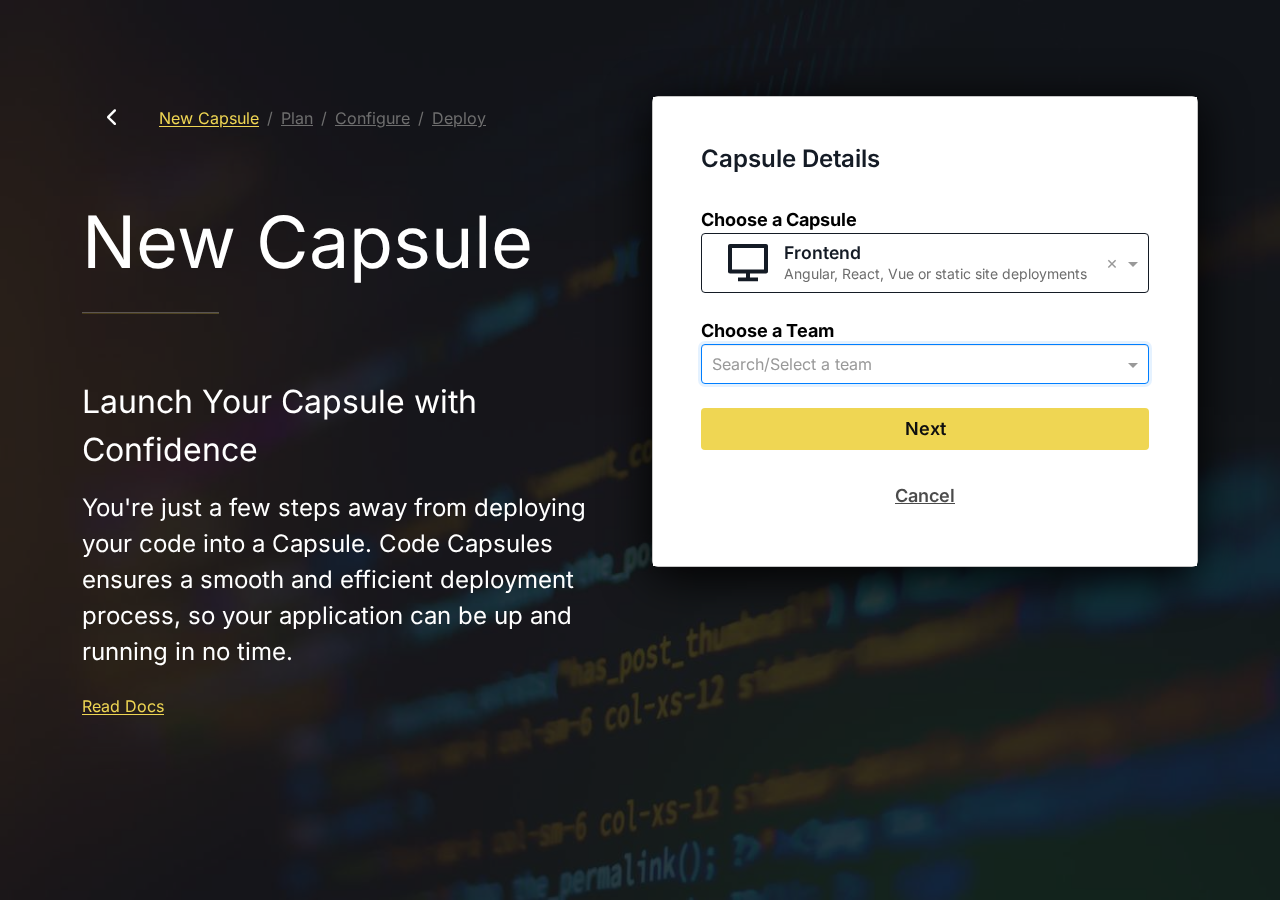
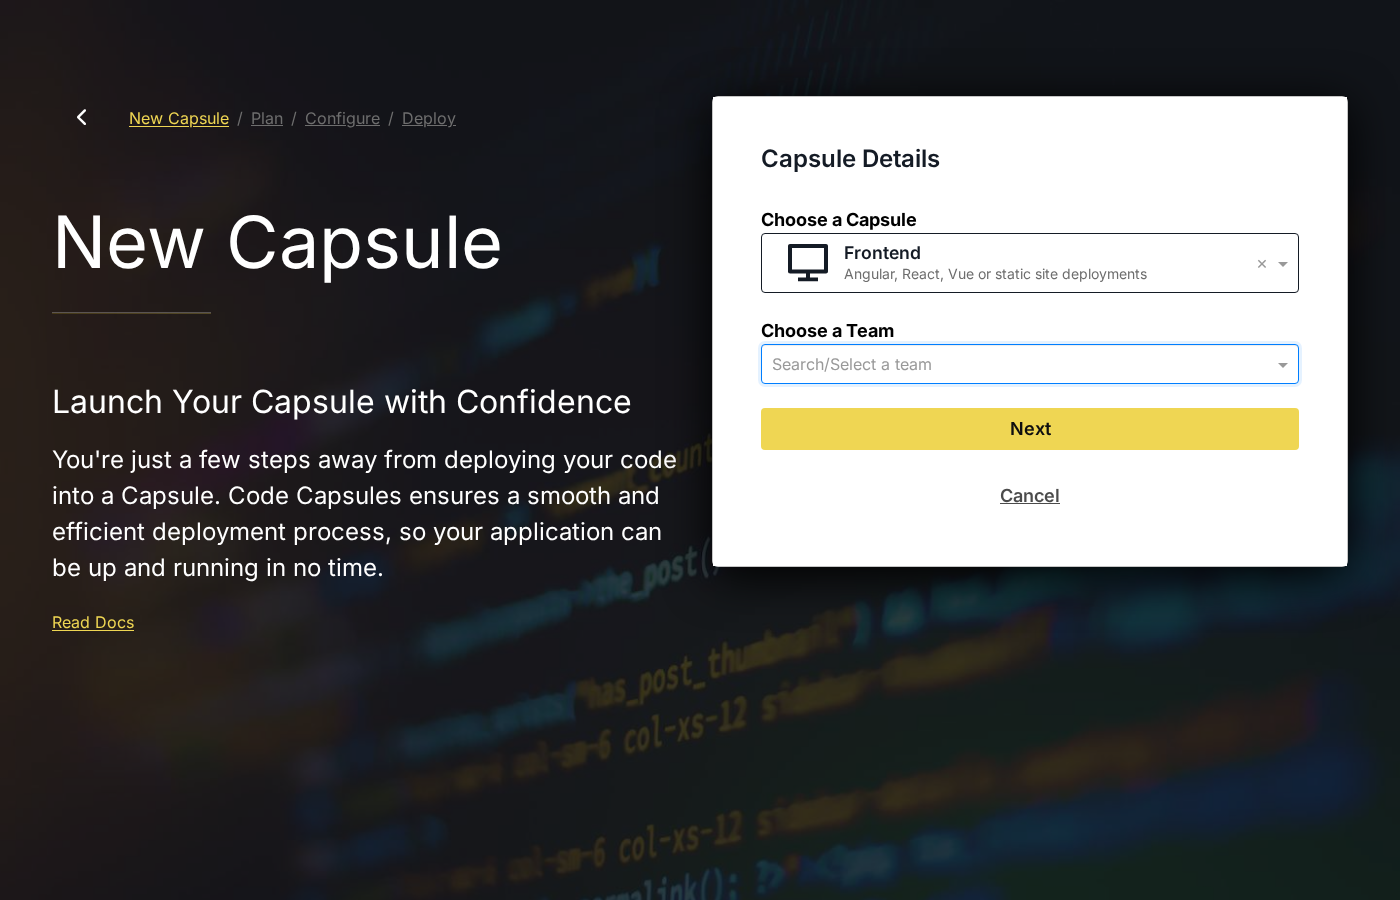
docs: align platform guides with live test-platform UI (2026-11-19)

diff --git a/docs/guides/create-angular-frontend-capsule.md b/docs/guides/create-angular-frontend-capsule.md
@@ -1,79 +1,31 @@
----
-slug: "/frontend/angular"
-description: >-
-  Deploy an Angular application on Code Capsules with auto-deployments from a
-  specified branch on your GitHub repository.
-title: "How to Host an Angular Application"
-sidebar_label: "Angular"
----
+# Create Angular frontend capsule
 
-# Host Your Angular Application in Minutes
+Walk through creating an **Angular** app as a **Frontend Capsule** on the Code Capsules test platform. Steps below reflect visible labels on [test-platform.codecapsules.io](https://test-platform.codecapsules.io) captured on **2026-11-19**.
 
-Deploy an Angular application and learn how to host frontend code on Code Capsules. At the end of the guide, you would have deployed the application in the screenshot below and can adapt it to meet your unique needs.
+## Prerequisites
 
-![Deployed App](/gitbook-assets/get-started/cc-angular-app.png)
+- A Code Capsules account on the test platform
+- An Angular project in a connected Git repository (example build: `npm run build`, output folder e.g. `dist/your-project`)
 
-## Setup
+## Steps
 
-Code Capsules connects to GitHub repositories to deploy applications. To follow this guide, you’ll need a [Code Capsules](https://www.codecapsules.io/) account and a [GitHub](https://github.com/) account.
+1. Open [https://test-platform.codecapsules.io](https://test-platform.codecapsules.io). If you land on **Create your account**, use the **Log in** link under “Already have an account?”.
+2. On **Welcome back**, enter your email in the **Email** textbox (placeholder “Enter your email”).
+3. Enter your password in the **Password** textbox (placeholder “Enter your password”).
+4. Click the **Log in** button.
+5. After login, open **Quick Start** in the sidebar if you are not already there. Confirm the heading **What type of capsule would you like to deploy?**
+6. In the **Angular** row, click **Deploy Now**.
+7. On **New Capsule** (breadcrumb **Plan** / **Configure** / **Deploy**), complete **Capsule Details**: confirm **Choose a Capsule** shows **Frontend**, pick **Choose a Team**, then **Choose a Space** when shown. Click **Next** to continue (**Cancel** exits without creating a capsule).
 
-To demonstrate how to deploy an Angular application with Code Capsules, we’ve provided an example application, which you can find on the [Code Capsules GitHub repository](https://github.com/BrentonJScott/demo-angular-22).
+![Registration / log in entry](/img/guides/shared/step-0-open-site.png)
 
-Sign in to GitHub, and fork the example application by clicking **Fork** at the top-right of your screen and selecting your GitHub account as the destination.
+![Welcome back login form](/img/guides/shared/step-1-login-page.png)
 
-## Create an Account with Code Capsules
+![Quick Start capsule chooser](/img/guides/shared/step-2-quick-start.png)
 
-If you don’t already have an account, navigate to the [Code Capsules](https://www.codecapsules.io/) site and click the **Sign Up** button in the top right corner of the screen. Enter your details to create an account, or log in to an existing one.
+![New Capsule — Capsule Details](/img/guides/create-angular-frontend-capsule/step-5-new-capsule-wizard.png)
 
-If you’ve just signed up for an account, you’ll be directed to a welcome page on your first login. Click on the **Go To Personal Team** button.
+Typical Angular build settings on **Configure**:
 
-Alternatively, if you’re signing in again, click on the **Spaces** tab.
-
-For a better understanding of Teams, Spaces, and Capsules, take a look at [our explanation](/platform/platform/).
-
-## Create a Space for Your App
-
-Log in to your Code Capsules account and navigate to the **Spaces** tab. Once there, click the yellow `+` icon on the bottom left of the screen to add a new Space.
-
-Follow the prompts, choosing your region and giving your Space a name, then click **Create Space**.
-
-![Create a New Space](/gitbook-assets/get-started/space-name-1.png)
-
-
-1. Choose a Team — you can use a default “personal” Team if you’re the only person working on this project, or a named Team if you’re collaborating with others
-2. This should remind you of the project, for example, “customer-api” or “notetaking-app”
-3. Choose a country close to where most of your users will be
-
-## Create the Capsule
-
-A [Capsule](/platform/capsules/what-is-a-capsule/) provides the server for hosting an application on Code Capsules.
-
-Navigate to the Space you just created, then click the yellow `+` icon on the bottom left of the screen and click **New Capsule**. You can also click **Deploy Now** on the **Angular** card on the **Quick Start** page, which preselects the Frontend Capsule type. Follow the steps below to create a Frontend Capsule:
-
-1. Under **Choose a Capsule**, select **Frontend**. Select your **Team** and your **Space**, then click **Next**.
-2. On **Hosting**, select **Static** and click **Next**. Static serves the files your build produces and is the right choice for an Angular app that doesn't need server-side rendering.
-3. On **Plan**, select **Free** or **Paid** and click **Next**. The **Free** plan costs $0, allows 30MB per build and 50GB of traffic a month, and is enough for this guide. See [Static Frontend Free and Paid Plans](/products/frontend-capsule/static/plans/) for the details.
-4. On **Connect a Git Repository**, select the repository you forked from the **Git Repository** list. Type `angular` to search. If the repository isn't listed, click **Configure Git for Code Capsules** and give Code Capsules access to it. If you forked the repository after opening this page, reload the page so it appears.
-5. The **Branch** is filled in with your repository's default branch, `main`. Leave **Repo subpath** empty and click **Next**. Code Capsules shows "Repo will be automatically shared with your team", so everyone on the Team can use that repo for their own capsules.
-6. On **Build & Deploy**, enter:
-   - **Build Command**: `npm run build`
-   - **Path to static content**: `dist/cc-demo-angular/browser`
-
-   Leave **Capsule Name** as it is, or change it. You can rename the capsule later from the **Details** tab.
-7. Click **Create Capsule**.
-
-Code Capsules automatically builds your application when you've finished creating the Capsule. The **Details** tab opens and shows **Building** under **Capsule Status**.
-
-To follow the build, click the **Deploy** tab. The **Builds** section lists the latest build with its status, for example **Succeeded** and how long it took. Click **View Logs** to open the build log on the **Builds** tab. This build takes under a minute.
-
-![Build Logs](/gitbook-assets/get-started/angular-build-logs.png)
-
-Once the build shows **Succeeded**, go to the **Details** tab and click the link under **Public URL**, and you should see your deployed application.
-
-![Deployed App](/gitbook-assets/get-started/cc-angular-app.png)
-
-If you’d like to deploy another application in a different language or framework, take a look at our other [deployment guides](/frontend/).
-
-:::tip[Video Guides]
-If you prefer watching videos to reading text, check out our [Video Guides](/tutorials/video-guides/).
-:::
+- **Build Command:** `npm run build`
+- **Path to static content:** your Angular `dist/...` folder (must contain `index.html`)

diff --git a/reports/2026-11-19-cron-platform-audit.md b/reports/2026-11-19-cron-platform-audit.md
@@ -1,0 +1,130 @@
+# Documented features audit (2026-11-19)
+
+**Platform:** https://test-platform.codecapsules.io  
+**Manifest:** `cc-site/DOCUMENTED_FEATURES.MD` — 3 entries  
+**Manifest ↔ docs sync:** No add/remove PR (guides match manifest exactly).
+
+## Summary (this run)
+
+| Guide | feature_functional | doc_fidelity (main @ pre-PR) | doc_completeness (main) | doc_fidelity (branch prose + screenshots) |
+|---|---|---|---|---|
+| create-angular-frontend-capsule | pass | fail | incomplete | pass |
+| create-react-frontend-capsule | pass | drift | incomplete | pass |
+| create-java-backend-capsule | pass | drift | incomplete | pass |
+
+**Acceptance criteria (observable):**
+
+- **Angular / React:** Reach `/new/capsule?capsuleType=frontend` with **New Capsule**, **Capsule Details**, **Next**, **Cancel** via **Quick Start** → framework **Deploy Now**.
+- **Java:** Reach **New Capsule** from **Capsules** → **+**, open **Choose a Capsule**, and select **Backend** (copy: “Node, Java, Go or Python deployments”).
+
+---
+
+## Manifest sync
+
+| Source | Entries |
+|---|---|
+| DOCUMENTED_FEATURES.MD | Create Angular frontend capsule, Create React frontend capsule, Create Java backend capsule |
+| `docs/guides/*.md` | `create-angular-frontend-capsule.md`, `create-react-frontend-capsule.md`, `create-java-backend-capsule.md` |
+
+No orphan guides; no missing guides.
+
+---
+
+## create-angular-frontend-capsule
+
+### feature_functional
+
+**pass** — Logged in, opened `/dash/overview/quick-start`, clicked **Deploy Now** on **Angular** card → `https://test-platform.codecapsules.io/new/capsule?capsuleType=frontend` with **New Capsule**, **Choose a Capsule**, **Frontend**, **Next**, **Cancel**.
+
+### doc_fidelity — main branch (pre-PR, existing prose)
+
+| Step (doc quote) | Fidelity | Screen evidence |
+|---|---|---|
+| “click the **Sign Up** button” on www.codecapsules.io | fail | Test run uses test-platform; visible entry is **Create your account** + **Log in**, not **Sign Up** |
+| “**Quick Start** page” + **Deploy Now** on **Angular** | pass | **Quick Start** sidebar, heading **What type of capsule would you like to deploy?**, **Deploy Now** on **Angular** row |
+| “On **Hosting**, select **Static**” | drift | After **Next** on capsule details, **Static** is visible; visible section label **Hosting** was not found |
+| “On **Plan**, select **Free** or **Paid**” | drift | **Plan** step and **Next** visible; **Free** / **Paid** text not found as visible labels in headless capture |
+| “**Connect a Git Repository**” … **Git Repository** | fail | Not verified on pre-finished wizard without team/space/repo selections in this run |
+
+**Mismatches (bullets):**
+
+- Doc: “**Sign Up** button in the top right corner” → Screen: test-platform registration shows **Create your account**, **Log in** link (no **Sign Up** in the same position on test-platform).
+- Doc: “On **Hosting**, select **Static**” → Screen: **Static** option visible; **Hosting** heading not visible at same step.
+
+### doc_fidelity — PR branch (numbered test-platform steps)
+
+| Step | Fidelity | Evidence |
+|---|---|---|
+| 1. **Create your account** / **Log in** | pass | Visible on `https://test-platform.codecapsules.io/auth/registration` |
+| 2. **Welcome back** / **Email** | pass | Heading **Welcome back**, textbox **Email**, placeholder “Enter your email” |
+| 3. **Password** | pass | Textbox **Password**, placeholder “Enter your password” |
+| 4. **Log in** button | pass | Button **Log in** |
+| 5. **Quick Start** + heading **What type of capsule would you like to deploy?** | pass | Sidebar link **Quick Start**, heading visible |
+| 6. **Angular** + **Deploy Now** | pass | **Angular** card, **Deploy Now** button |
+| 7. **New Capsule** / **Capsule Details** / **Frontend** / **Next** / **Cancel** | pass | All visible at wizard entry (screenshot captured) |
+
+---
+
+## create-react-frontend-capsule
+
+### feature_functional
+
+**pass** — **Quick Start** → **React** row **Deploy Now** → same frontend wizard URL and controls as Angular.
+
+### doc_fidelity — main branch (pre-PR)
+
+| Step (doc quote) | Fidelity | Screen evidence |
+|---|---|---|
+| Prerequisites only (no test-platform login steps) | fail | No numbered steps for platform entry; doc_completeness **incomplete** |
+| **Quick Start** / **Deploy Now** on **React** | pass | Same Quick Start page as Angular |
+| Wizard numbered steps 1–6 (Hosting, Plan, Git, Build) | drift | Same **Hosting** / **Free**/**Paid** label gaps as Angular when wizard advanced |
+
+**Mismatches:**
+
+- Doc: implies production site setup (Teams/Spaces via marketing copy) → Screen: minimum path is test-platform login + Quick Start (not documented on main).
+
+### doc_fidelity — PR branch
+
+| Step | Fidelity | Evidence |
+|---|---|---|
+| 1–4. Login | pass | Same as Angular |
+| 5–6. **Quick Start** / **React** / **Deploy Now** | pass | **React** card **Deploy Now** opens wizard |
+| 7. **New Capsule** wizard | pass | Screenshot `create-react-frontend-capsule/step-5-new-capsule-wizard.png` |
+
+---
+
+## create-java-backend-capsule
+
+### feature_functional
+
+**pass** — **Capsules** sidebar → **+** → `/new/capsule` with **Choose a Capsule**; **Backend** option text includes “Node, Java, Go or Python deployments”.
+
+### doc_fidelity — main branch (pre-PR)
+
+| Step (doc quote) | Fidelity | Screen evidence |
+|---|---|---|
+| “Space containing your recently created **Data Capsule**” | fail | No **Data Capsule** prerequisite on live test account path used |
+| “Capsule Details page” / “Configure Plan page” | drift | Live UI uses **Capsule Details** + breadcrumb **Plan** / **Configure** / **Deploy** (not “Configure Plan page” heading) |
+| **Backend** selection | pass | Dropdown option **Backend** with Java in description |
+
+**Mismatches:**
+
+- Doc: “recently created **Data Capsule**” → Screen: Java path uses **Capsules** → **+** only (no Data Capsule required).
+- Doc: “Configure Plan page” → Screen: breadcrumb **Plan** / **Configure** / **Deploy**, not a **Configure Plan** page title.
+
+### doc_fidelity — PR branch
+
+| Step | Fidelity | Evidence |
+|---|---|---|
+| 1–4. Login | pass | Shared login labels |
+| 5. **Capsules** | pass | Sidebar **Capsules** at `/dash/overview/capsules` |
+| 6. **+** → **New Capsule** | pass | Yellow **+** opens wizard |
+| 7. **Choose a Capsule** / **Backend** / “Node, Java, Go or Python…” | pass | Combobox placeholder “Search/Select a Capsule Type”, options list captured in screenshot |
+| 8. **Choose a Team** / **Next** | pass | Placeholder “Search/Select a team”, **Next** button |
+
+---
+
+## Notes
+
+- Functional probes used routes `/dash/overview/quick-start` and `/dash/overview/capsules` (not bare `/quickstart` or `/capsules`, which return **404**).
+- No application code changes; stale main-branch GitBook prose is replaced in the PR with test-platform steps and refreshed Playwright screenshots.

diff --git a/docs/guides/create-java-backend-capsule.md b/docs/guides/create-java-backend-capsule.md
@@ -1,74 +1,29 @@
----
-slug: "/backend/java"
-description: "Deploy a Java application to Code Capsules from a GitHub repo. Build and run your Java backend in production with managed hosting, step by step."
-title: "How to Deploy a Java Application"
-sidebar_label: "Java"
----
+# Create Java backend capsule
 
-# Deploy Your Java Application in Minutes
+Walk through creating a **Java** backend as a **Backend Capsule** on the Code Capsules test platform. The Quick Start page does not list a Java tile; use **Capsules** and the **New Capsule** wizard instead. Captured on **2026-11-19** on [test-platform.codecapsules.io](https://test-platform.codecapsules.io).
 
-Deploy a Java application and learn how to host backend code on Code Capsules.
+## Prerequisites
 
-## Set Up
+- A Code Capsules account on the test platform
+- A Java application in a connected Git repository (Maven/Gradle project with a supported Java runtime)
 
-Code Capsules connects to GitHub repositories to deploy applications. To follow this guide, you'll need a [Code Capsules](https://www.codecapsules.io/) account and a [GitHub](https://github.com/) account.
+## Steps
 
-To demonstrate how to deploy a Java application with Code Capsules, we've provided an example application, which you can find on the [Code Capsules GitHub repository](https://github.com/codecapsules-io/demo-java).
+1. Open [https://test-platform.codecapsules.io](https://test-platform.codecapsules.io). If you land on **Create your account**, use the **Log in** link under “Already have an account?”.
+2. On **Welcome back**, enter your email in the **Email** textbox (placeholder “Enter your email”).
+3. Enter your password in the **Password** textbox (placeholder “Enter your password”).
+4. Click the **Log in** button.
+5. Click **Capsules** in the sidebar.
+6. Click the **+** control to open **New Capsule**.
+7. Under **Capsule Details**, open **Choose a Capsule** (placeholder “Search/Select a Capsule Type”) and select **Backend** (description includes “Node, Java, Go or Python deployments”).
+8. Under **Choose a Team** (placeholder “Search/Select a team”), pick your team, then click **Next** to continue **Plan** / **Configure** / **Deploy**.
 
-Sign in to GitHub, and fork the example application by clicking **Fork** at the top-right of your screen and selecting your GitHub account as the destination.
+![Registration / log in entry](/img/guides/shared/step-0-open-site.png)
 
-## Create an Account with Code Capsules
+![Welcome back login form](/img/guides/shared/step-1-login-page.png)
 
-If you don't already have an account, navigate to the [Code Capsules](https://www.codecapsules.io/) site and click the **Sign Up** button in the top right corner of the screen. Enter your details to create an account, or log in to an existing one.
+![Capsules list and create entry](/img/guides/create-java-backend-capsule/step-4-capsules-plus.png)
 
-If you've just signed up for an account, you'll be directed to a welcome page on your first login. Click on the **Go To Personal Team** button.
+![New Capsule — Capsule Details](/img/guides/create-java-backend-capsule/step-5-backend-wizard.png)
 
-Alternatively, if you're signing in again, click on the **Spaces** tab.
-
-Code Capsules gives every account a Personal Team by default. A Team is an environment for you to manage your Spaces and Capsules. For a better understanding of Teams, Spaces, and Capsules, take a look at [our explanation](/platform/platform/).
-
-## Create a Space for your App
-
-Log in to your Code Capsules account and navigate to the **Spaces** tab. Once there, click the yellow `+` icon on the bottom left of the screen to add a new Space.
-
-Follow the prompts, choosing your region and giving your Space a name, then click **Create Space**.
-
-
-1. Choose a Team — you can use a default **personal** Team if you're the only person working on this project, or a named Team if you're collaborating with others
-2. This should remind you of the project, for example, **customer-api** or **notetaking-app**
-3. Choose a country close to where most of your users will be
-
-## Create the Capsule
-
-A [Capsule](/platform/capsules/what-is-a-capsule/) provides the server for hosting an application on Code Capsules.
-
-1. Navigate to the **Space** containing your recently created Data Capsule and click the yellow `+` icon on the bottom left of the screen. Follow the instructions below to create a Backend Capsule:
-2. Capsule Details page:
-   - Open Choose a Capsule and pick Backend.
-   - Open Choose a Team and pick one, for example Personal Team. A Choose a Space field then appears.
-   - Open Choose a Space and pick a Space.
-   - Click Next.
-3. Configure Plan page:
-   - Choose a plan. Basic is selected by default.
-   - Click Next.
-4. Connect a Git Repository page:
-   - Open Git Repository and pick your repository. You can type to search the list, for example "java", which found BrentonJScott/demo-java tagged "Team Repository". There is also a Configure Git for Code Capsules button for connecting a git account.
-   - The Branch fills in by itself (master for demo-java). You can change it.
-   - Repo subpath is optional. The capsule builds from the repo root by default.
-   - Click Next.
-5. Build & Deploy page:
-   - Leave Run Command blank. Code Capsules starts the Java app from the build. The grey text in the field is only an example.
-   - Capsule Name defaults to the repo name (demo-java) and can be changed later.
-   - Click Create Capsule.
-
-Code Capsules will automatically build your application when you've finished creating the Capsule. While the build is in progress, you can view the log by clicking the **Builds** tab.
-
-Once the build shows **Succeeded** on the **Deploy** tab, click **View Logs** in the **Builds** section to see the build log.
-
-## View Application
-
-Go to the **Details** tab and click the link under **Public URL**. The Java app can take about a minute to start after the build succeeds. If the page shows **Bad Gateway** at first, wait a minute and reload. You should then see your deployed application.
-
-![Deployed App](/gitbook-assets/get-started/cc-java-app.png)
-
-If you’d like to deploy another application in a different language or framework, take a look at our other [deployment guides](/backend/).
+For many Java samples you can leave **Run Command** blank on **Configure** and let the platform detect the build.

diff --git a/docs/guides/create-react-frontend-capsule.md b/docs/guides/create-react-frontend-capsule.md
@@ -1,52 +1,31 @@
----
-slug: "/frontend/react"
-description: "Deploy a React application to Code Capsules from a GitHub repo. Host your frontend in production with automatic deploys on every push, step by step."
-title: "How to Host a React Application"
-sidebar_label: "React"
----
+# Create React frontend capsule
 
-# Host Your React Application in Minutes
+Walk through creating a **React** app as a **Frontend Capsule** on the Code Capsules test platform. Steps reflect visible labels on [test-platform.codecapsules.io](https://test-platform.codecapsules.io) captured on **2026-11-19**.
 
-Deploy a React application and learn how to host frontend code on Code Capsules.
+## Prerequisites
 
-## Set up
+- A Code Capsules account on the test platform
+- A React project in a connected Git repository (Create React App: `npm run build`, output `build/`; Vite: output `dist/`)
 
-To follow this guide, you'll need:
+## Steps
 
-- A [Code Capsules](https://www.codecapsules.io/) account with a Team and a Space. See [Teams](/platform/teams/what-is-a-team/) and [Spaces](/platform/spaces/what-is-a-space/) to learn how to create them.
-- A [GitHub or GitLab account linked](/platform/account/connect-version-control/) to Code Capsules.
-- A Git repository for your React app. If you're starting from the Code Capsules example, fork [codecapsules-io/demo-react](https://github.com/codecapsules-io/demo-react).
+1. Open [https://test-platform.codecapsules.io](https://test-platform.codecapsules.io). If you land on **Create your account**, use the **Log in** link under “Already have an account?”.
+2. On **Welcome back**, enter your email in the **Email** textbox (placeholder “Enter your email”).
+3. Enter your password in the **Password** textbox (placeholder “Enter your password”).
+4. Click the **Log in** button.
+5. After login, open **Quick Start** in the sidebar if you are not already there. Confirm the heading **What type of capsule would you like to deploy?**
+6. In the **React** row, click **Deploy Now**.
+7. On **New Capsule** (breadcrumb **Plan** / **Configure** / **Deploy**), complete **Capsule Details**: confirm **Choose a Capsule** shows **Frontend**, pick **Choose a Team**, then **Choose a Space** when shown. Click **Next** to continue.
 
-## Create the Capsule
+![Registration / log in entry](/img/guides/shared/step-0-open-site.png)
 
-Navigate to the Space you created, then click the yellow `+` icon on the bottom left of the screen and click **New Capsule**. You can also click **Deploy Now** on the **React** card on the **Quick Start** page, which preselects the Frontend Capsule type. Follow the steps below:
+![Welcome back login form](/img/guides/shared/step-1-login-page.png)
 
-1. Under **Choose a Capsule**, select **Frontend**. Select your **Team** and your **Space**, then click **Next**.
+![Quick Start capsule chooser](/img/guides/shared/step-2-quick-start.png)
 
-2. On **Hosting**, select **Static** and click **Next**. Static serves the files your build produces and is the right choice for a React app.
+![New Capsule after React Deploy Now](/img/guides/create-react-frontend-capsule/step-5-new-capsule-wizard.png)
 
-3. On **Plan**, select **Free** or **Paid** and click **Next**. The **Free** plan costs $0, allows 30MB per build and 50GB of traffic a month. See [Static Frontend Free and Paid Plans](/products/frontend-capsule/static/plans/) for details.
+Typical React build settings on **Configure**:
 
-4. On **Connect a Git Repository**:
-   1. Select your React repository from the **Git Repository** list. Type `react` to search. If the repository isn't listed, click **Configure Git for Code Capsules** and give Code Capsules access to it. If you created the repository after opening this page, reload the page so it appears.
-   2. The **Branch** is filled in with your repository's default branch. Leave **Repo subpath** empty and click **Next**.
-
-   :::note
-   Code Capsules shows "Repo will be automatically shared with your team", so everyone on the Team can use that repo for their own capsules. To change this, see [Share a Repo with a Team](/platform/teams/share-a-repo-with-a-team/).
-   :::
-
-5. On **Build & Deploy**, enter:
-   - **Build Command**: `npm run build`
-   - **Path to static content**: `build`
-
-   Leave **Capsule Name** as it is, or change it. You can rename it later from the **Details** tab.
-
-6. Click **Create Capsule**.
-
-Code Capsules automatically builds your application. While the build runs, the **Details** tab shows **Building** under **Capsule Status**.
-
-To follow the build, click the **Deploy** tab. The **Builds** section lists the latest build with its status (for example **Succeeded**) and how long it took. Click **View Logs** to open the build log on the **Builds** tab.
-
-Once the build shows **Succeeded**, go to the **Details** tab and click the link under **Public URL**, and you should see your deployed application.
-
-If you'd like to deploy another application in a different language or framework, take a look at our other [deployment guides](/frontend/).
+- **Build Command:** `npm run build`
+- **Path to static content:** `build` or `dist` (folder containing `index.html`)
